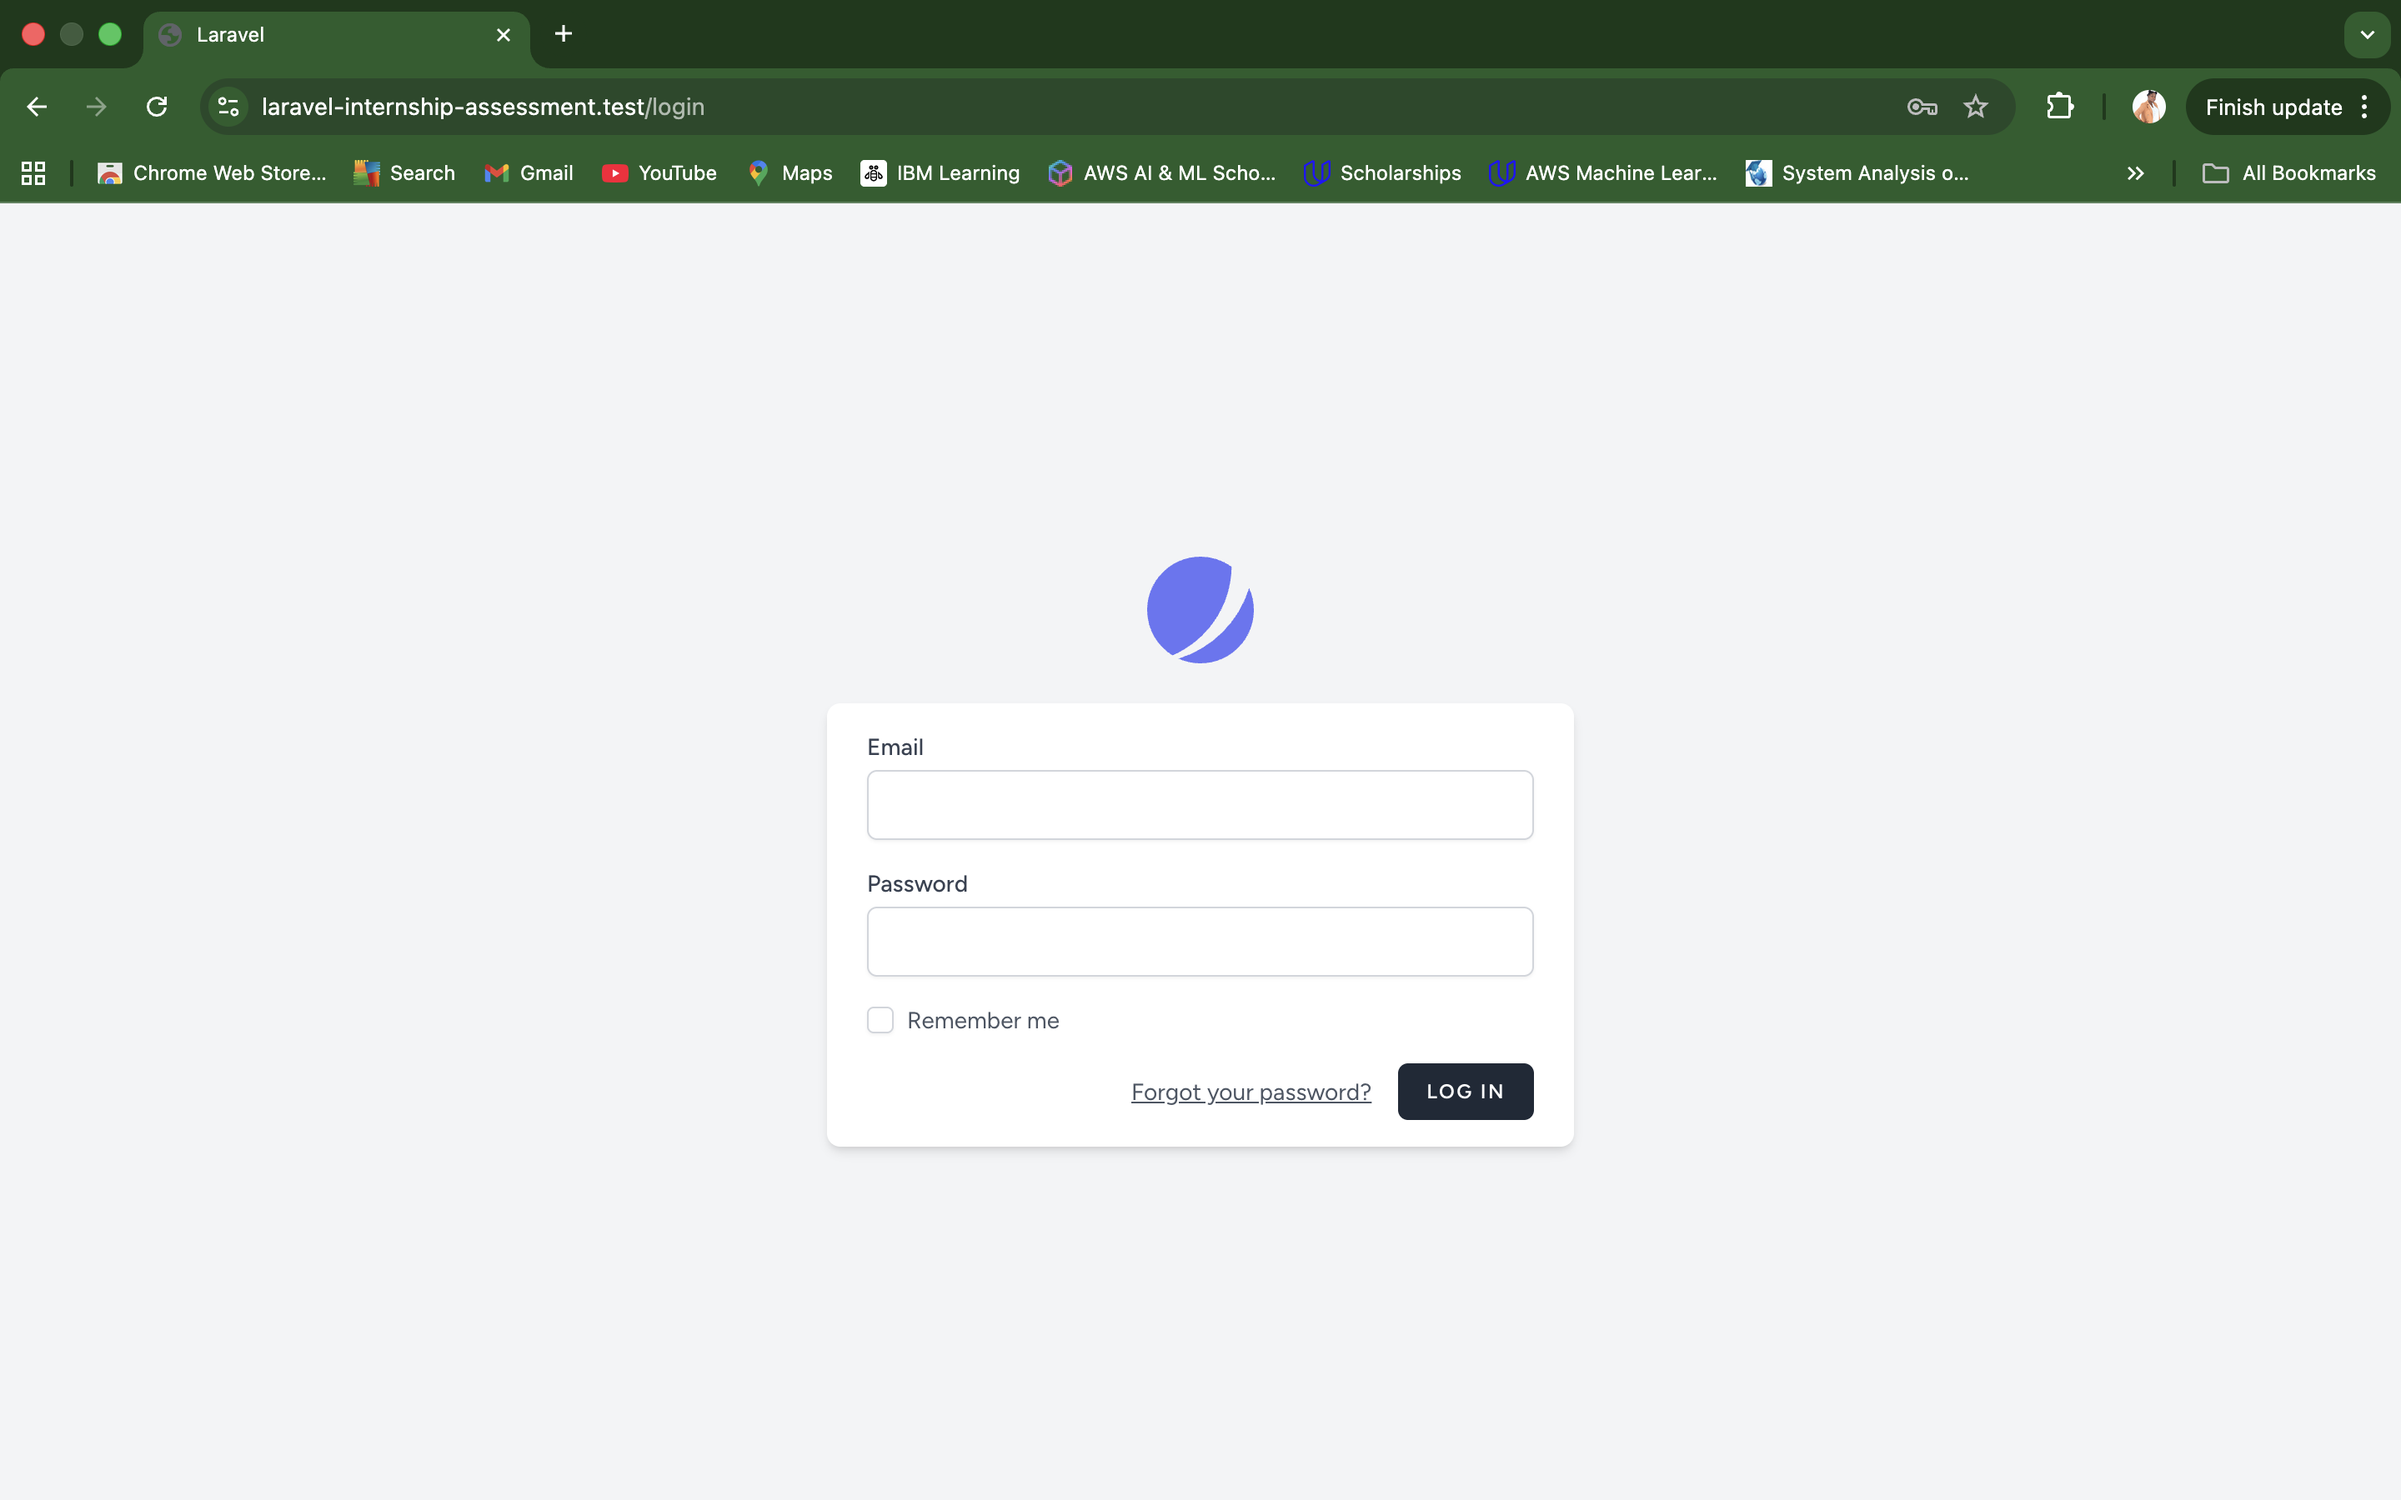
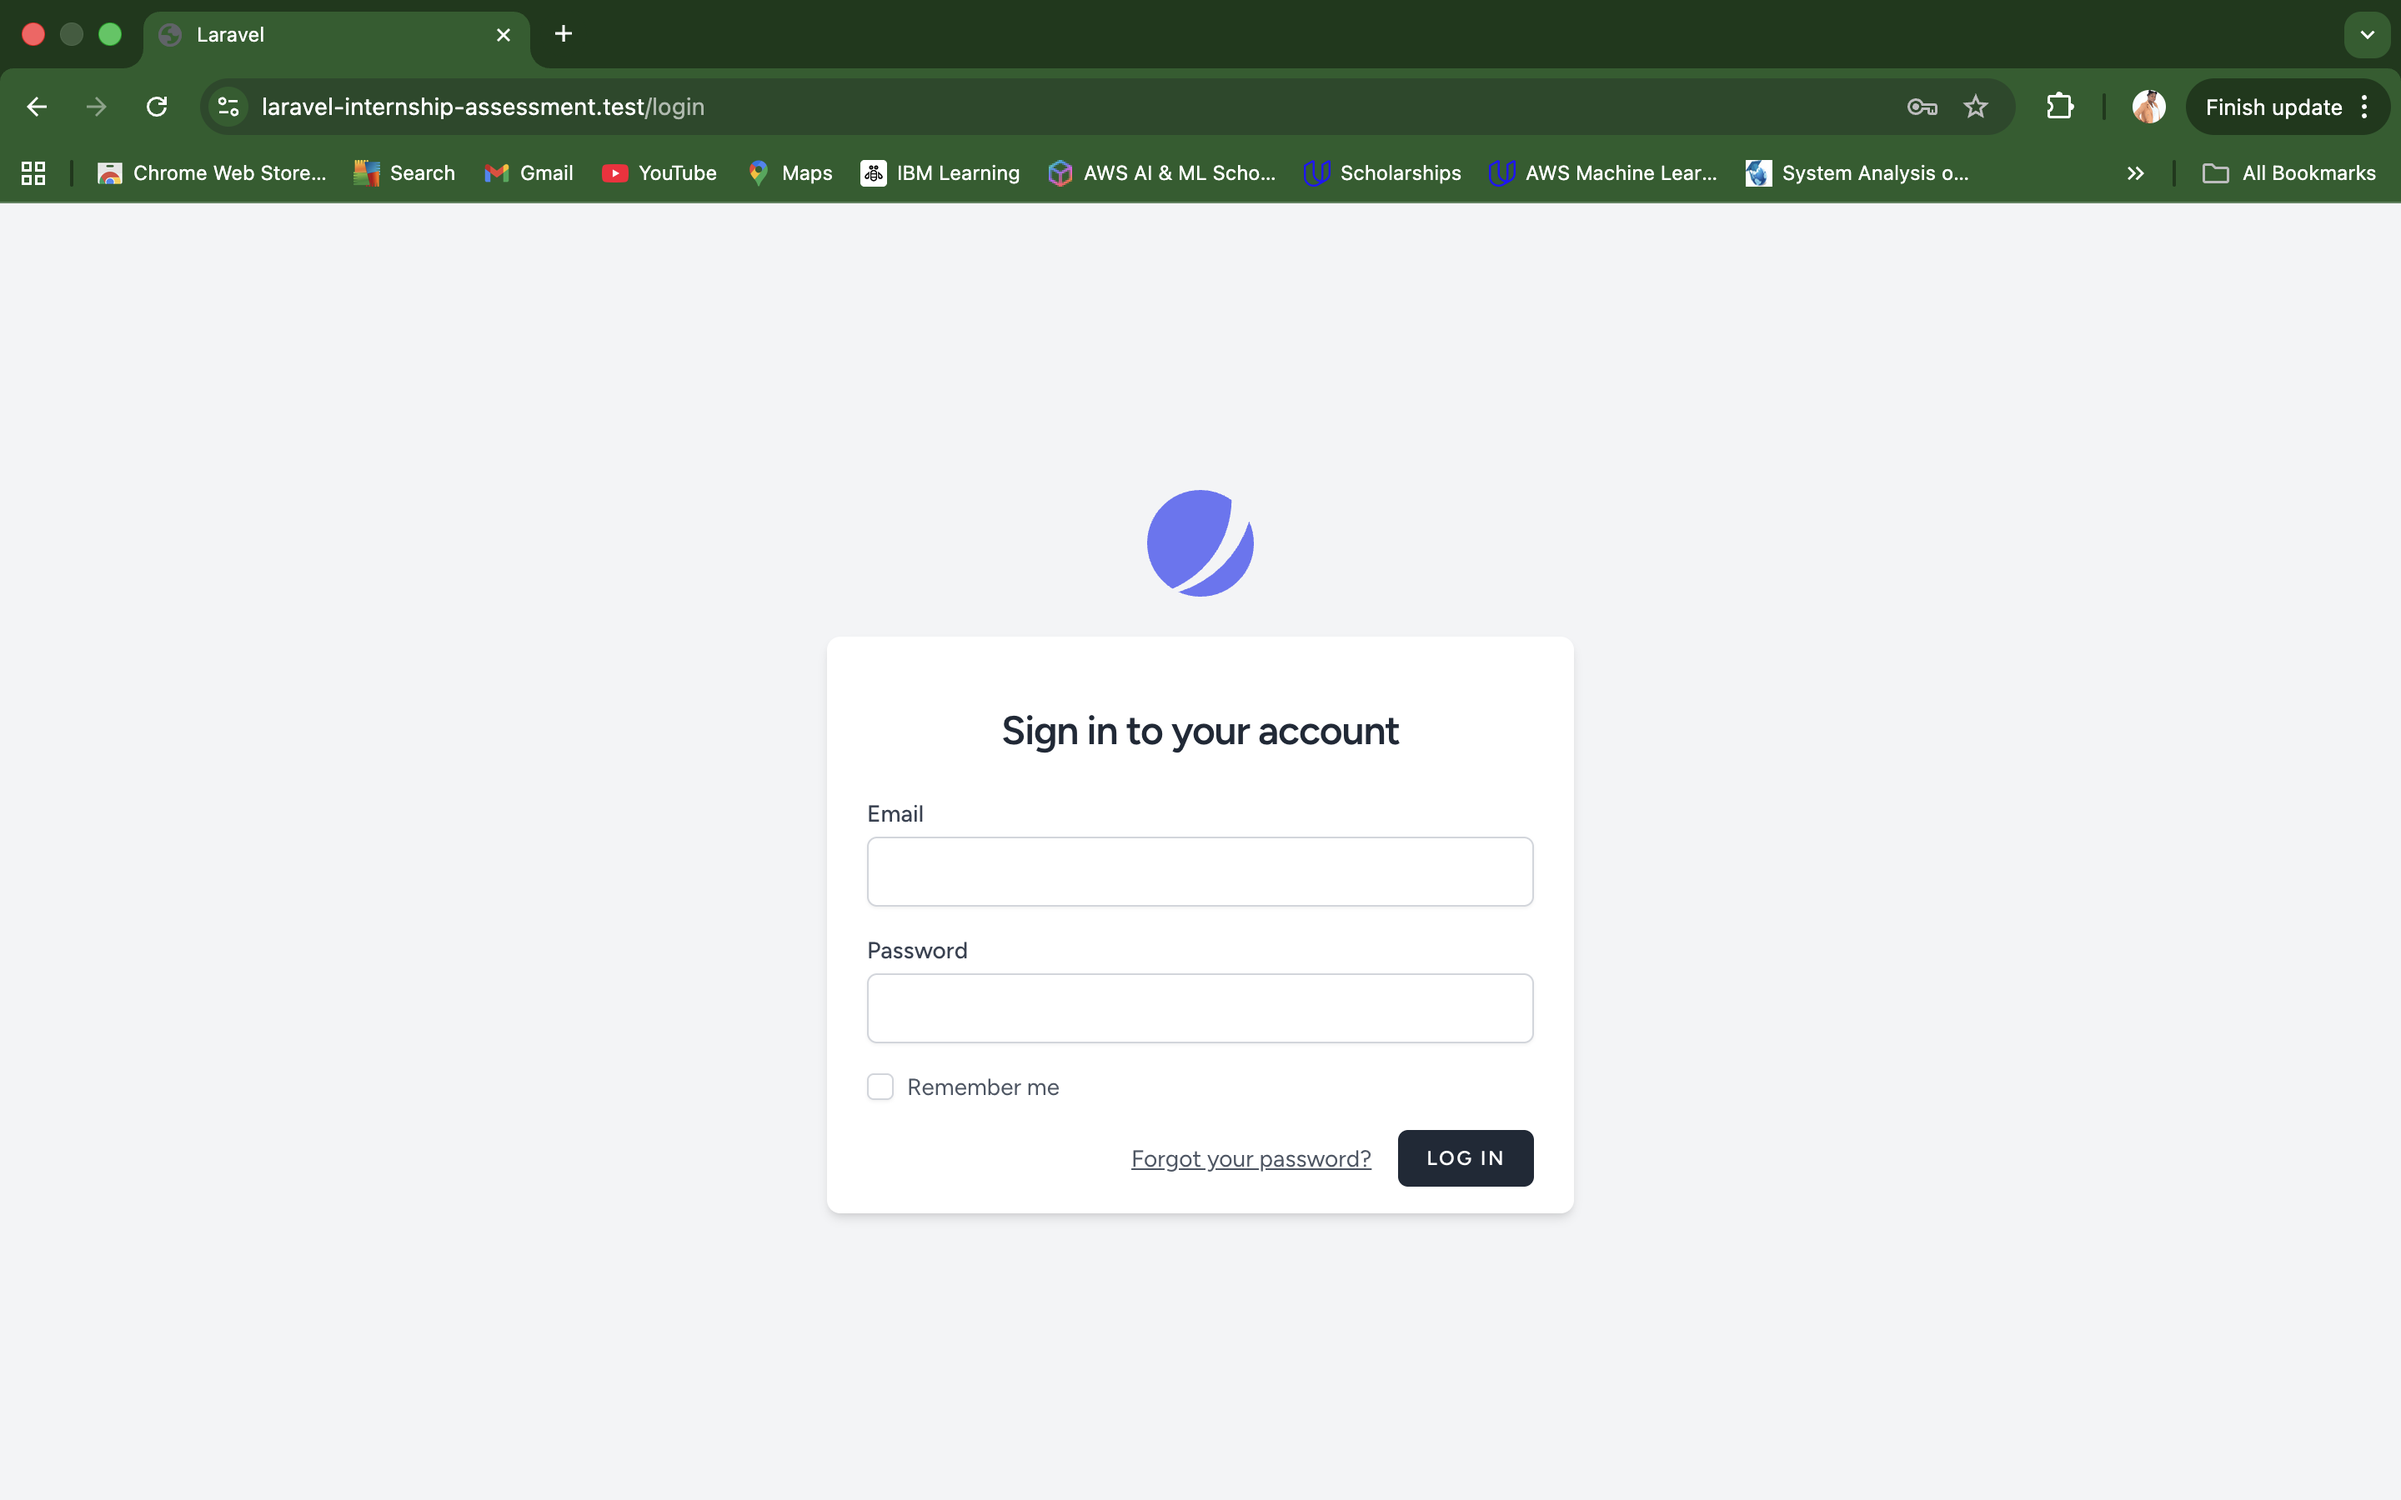
updating readme file

diff --git a/resources/views/auth/login.blade.php b/resources/views/auth/login.blade.php
@@ -3,7 +3,9 @@
         <x-slot name="logo">
             <x-authentication-card-logo />
         </x-slot>
-
+        <p class="text-2xl font-bold text-gray-800 text-center tracking-tight my-6">
+            Sign in to your account
+        </p>
         <x-validation-errors class="mb-4" />
 
         @session('status')
@@ -17,12 +19,14 @@
 
             <div>
                 <x-label for="email" value="{{ __('Email') }}" />
-                <x-input id="email" class="block mt-1 w-full" type="email" name="email" :value="old('email')" required autofocus autocomplete="username" />
+                <x-input id="email" class="block mt-1 w-full" type="email" name="email" :value="old('email')" required
+                    autofocus autocomplete="username" />
             </div>
 
             <div class="mt-4">
                 <x-label for="password" value="{{ __('Password') }}" />
-                <x-input id="password" class="block mt-1 w-full" type="password" name="password" required autocomplete="current-password" />
+                <x-input id="password" class="block mt-1 w-full" type="password" name="password" required
+                    autocomplete="current-password" />
             </div>
 
             <div class="block mt-4">
@@ -34,7 +38,8 @@
 
             <div class="flex items-center justify-end mt-4">
                 @if (Route::has('password.request'))
-                    <a class="underline text-sm text-gray-600 hover:text-gray-900 rounded-md focus:outline-none focus:ring-2 focus:ring-offset-2 focus:ring-indigo-500" href="{{ route('password.request') }}">
+                    <a class="underline text-sm text-gray-600 hover:text-gray-900 rounded-md focus:outline-none focus:ring-2 focus:ring-offset-2 focus:ring-indigo-500"
+                        href="{{ route('password.request') }}">
                         {{ __('Forgot your password?') }}
                     </a>
                 @endif

diff --git a/resources/views/auth/register.blade.php b/resources/views/auth/register.blade.php
@@ -4,6 +4,10 @@
             <x-authentication-card-logo />
         </x-slot>
 
+        <p class="text-2xl font-bold text-gray-800 text-center tracking-tight my-6">
+            Create account
+        </p>
+
         <x-validation-errors class="mb-4" />
 
         <form method="POST" action="{{ route('register') }}">
